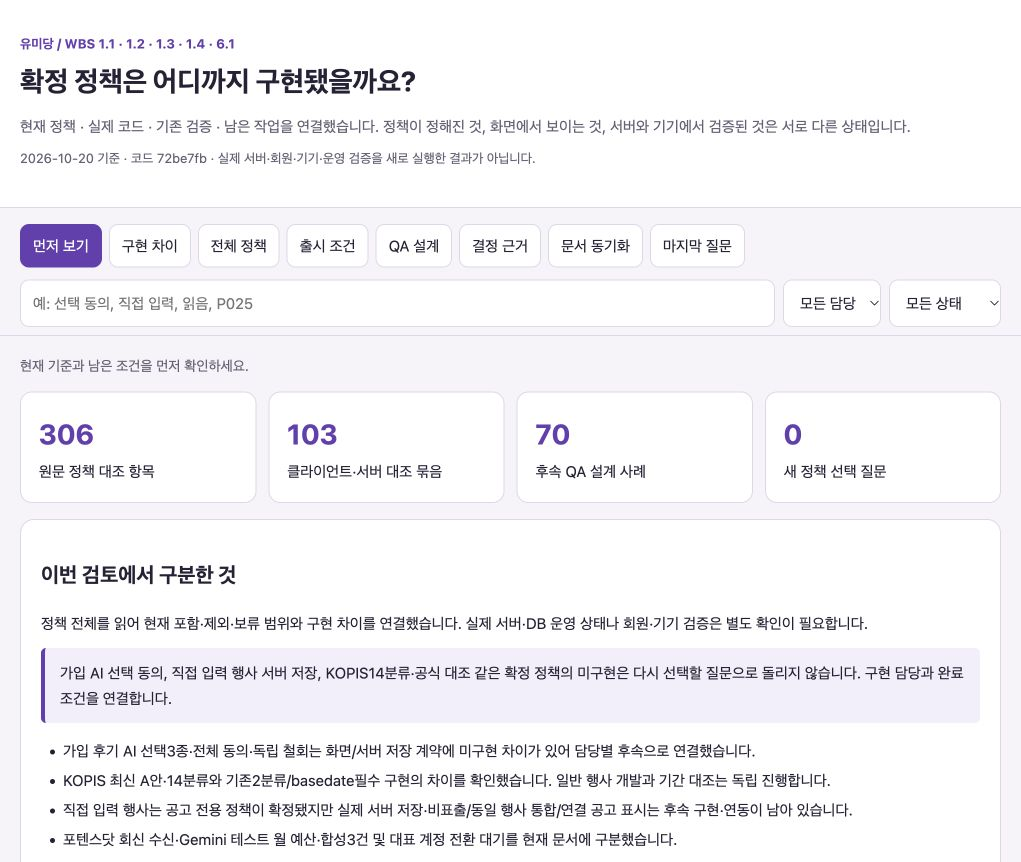
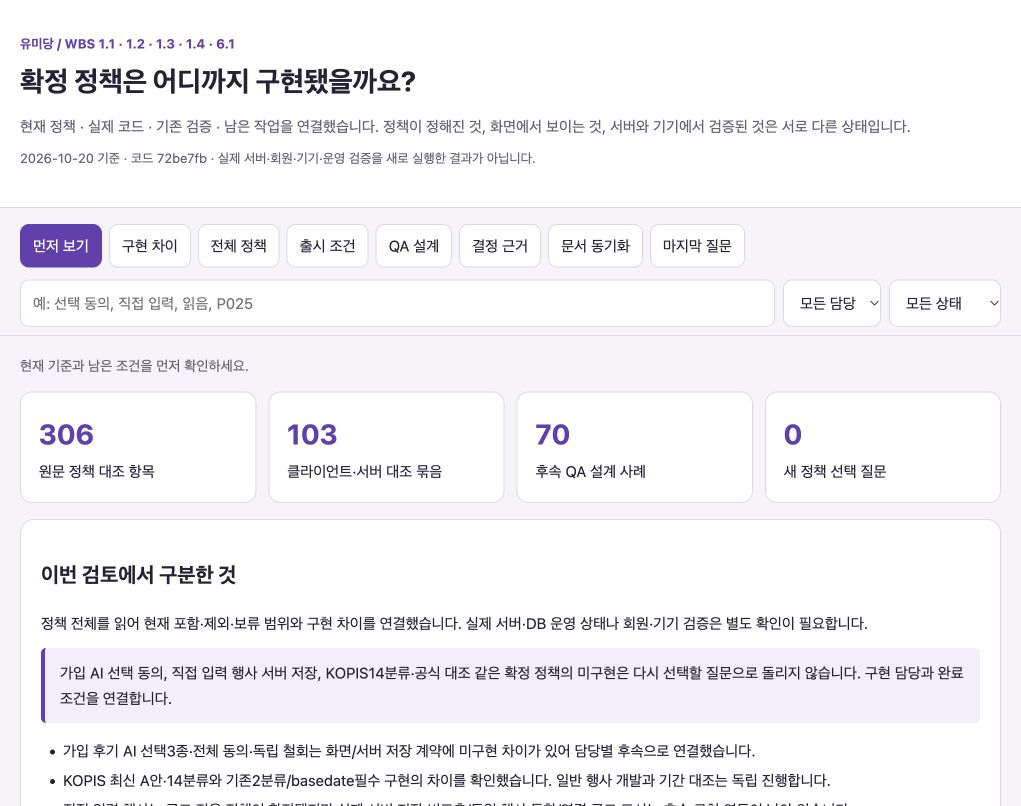
docs: record verified remote synchronization and WBS handoffs

diff --git a/docs/collaboration/requests/jonghyun/2026-10-20-policy-implementation-audit/README.md b/docs/collaboration/requests/jonghyun/2026-10-20-policy-implementation-audit/README.md
@@ -1259,3 +1259,19 @@
 - 종현: 클라이언트50묶음 중 확정 정책 미구현·UX·연동·합성 QA 후속. 날짜 입력 UX 재설계는 별도 작업이다.
 - 민규: 서버53묶음의 계약·DB·공급사/비용/운영 후속. 코드 소유권은 이번 문서 작업으로 바꾸지 않았다.
 - 유미/팀: 출시 조건 검토·실제 지원/접근/삭제/공급사·플랫폼 증빙과 최종 출시 판단. 실제 검토 완료를 대신 기록하지 않는다.
+
+## 실제 반영 결과 — 2026-10-20
+
+- 원격 문서 통합 커밋: `5476f6d3e73d763dd6e7f4a3dac3d7c7344c71cd`. 원래 문서341경로와 사용자 원본5개의 내용·해시 일치를 확인했다. 이 결과·Notion 증빙만 후속 보고 커밋으로 추가한다.
+- 이전에 로컬에 남았던 공통44개 문서는 원래 경로에 반영됐다. 과거 누적 패치를 다시 적용하지 말고 이번 종현 브랜치의 최종 문서를 통합한다. 정책/PRD/IA/USERFLOW 등 현재 문서와 과거 원문 증거의 구분을 유지한다.
+- 추가 전달된 `유미당_행사UX_추가확인_작성본.html`은 F01/F02/F03 모두A로 기존 텍스트 결정과 일치했다. 원본을 변경하지 않고 원격에 추가했으며 정책 내용의 새 변경은 없다.
+
+| Notion TASK | 실제 저장·재조회 상태 | 경계 |
+|---|---|---|
+| 1.1 | 최종 완료 | 범위 정합성 검토 완료 |
+| 1.2 | 최종 완료 | 차이 목록 작성·검토 완료, 기능 수정 완료가 아님 |
+| 1.3 | 최종 완료 | 현재 결정·보류 근거 정리 완료 |
+| 1.4 | 작업 대기 | 조건28개 정리는 완료, 실제 팀 검토·합의 대기 |
+| 6.1 | 최종 완료 | QA70사례·환경·증빙 설계 완료, 실행은 NOT_RUN |
+
+모든 TASK 본문에 요청한 작업 개요·목표·요약/구현·완료 기준·검증·산출물·배포/운영·미실행·후속 담당 인수인계를 남기고 재조회했다. [상태 영수증](notion-verification.json) · [6.1 화면](notion-6.1.png) · [1.4 대기 화면](notion-1.4.png).
